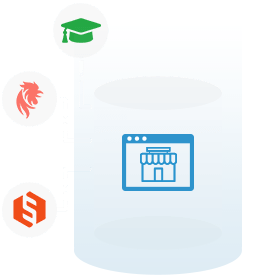
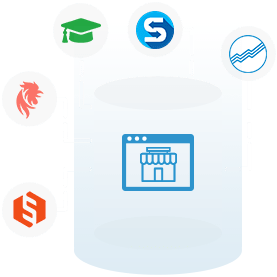
shuup changes added.

Changed region(s): [[0.491, 0.0289, 0.6354, 0.2022], [0.8087, 0.1155, 0.9819, 0.2599]]

diff --git a/en/marketplace/shuup/_index.md b/en/marketplace/shuup/_index.md
@@ -1,0 +1,32 @@
+---
+keywords: open source marketplace, top online marketplace, best open source b2b ecommerce platform, ecommerce marketplace, b2b ecommerce software solution, top b2b ecommerce platform
+title: Shuup | Widely deployed open source multivendor marketplace
+description: Shuup is an open source reliable and user-friendly single-vendor open source marketplace with subscriptions, commission plans and payment gateway integrations.
+singlepageh1title: Python and Django based open source multi-vendor marketplace
+singlepageh2title: Shuup is a true marketplace solution built for any business that allows vendors to sell services, subscriptions or physical products from an online marketplace.
+Shortdescriptionlistingpage: Shuup open source multi-vendor marketplace offers  features like inventory management, marketing and coupon campaigns, vendor subscription and commission plans.
+linktitle: Shuup
+Imagetext: Marketplace Software
+draft: false
+weight: 1
+layout: "single"
+GithubLink: https://github.com/shuup/shuup
+
+HomePage_TitleText: Open Source marketplace solution designed for selling services online.
+
+ListingPage_MenuImage_TitleText: 
+ListingPage_MenuImage_AltText: Shuup is open source marketplace software
+ListingPage_Link_TitleText: 
+
+SinglePage_HeaderImage_TitleText: Shuup is Python and Django Based Open Source Marketplace software
+SinglePage_HeaderImage_AltText: Shuup is Python and Django Based Open Source Marketplace software
+SinglePage_MenuImage_TitleText: Shuup is free and open source marketplace software
+SinglePage_MenuImage_AltText: Shuup is free and open source marketplace software
+
+---
+
+## **Overview**
+
+Shuup is an open source eCommerce platform easy to use, customize and scale. It is reliable and user-friendly, uses common standards that will promote your web and mobile presence. Shuup was built on top of the powerful Python web framework - Django. Its architecture provides secure work and advanced features for your store. This e-commerce framework allows to use responsive templates and themes that will make customization easy.
+
+Shuup aims at satisfying both sellers and buyers: features B2B, B2C, and multi-vendor stores. On the one hand, store is easy to manage and maintain. On the other hand, feasible interface and design make user experience pleasing. Shuup store features unlimited products, product types, and categories. Built-in features also include customer groups and customer property management. You can add person or company contacts, integrate Stripe payments and customize checkout process.

diff --git a/en/marketplace/shuup/installation.md b/en/marketplace/shuup/installation.md
@@ -1,0 +1,35 @@
+---
+title: Installation Guide
+onpagelink: installation
+weight: 3
+
+---
+
+### **Installation Instructions**
+
+## Install Shuup On Ubuntu
+
+First, ensure that all the depency packages of Shuup multivendor store are installed and up to date. Fastest way to get Shuup up and running is to use Docker:
+
+    docker-compose up
+
+Open localhost:8000/sa web panel in your favourite browser. Default log in with username: admin password: admin. If you want to install Shuup on local development environment then follow below guide. Update pip and setuptools below:
+
+    pip install -U pip
+    pip install -U setuptools
+
+Now, set up a new virtualenv for Shuup and activate it using command:
+
+    pip install -U pip
+    pip install -U setuptools
+
+Next, install shuup via pypi python packaging:
+
+    pip install shuup
+
+Once installed, you can begin setting up a Django project, settings and urls for configuration details. You will also need to add shuup.core to your INSTALLED_APPS. Finally, once you have configured the Shuup application then run the following commands to create the database and initialize Shuup:
+
+    python manage.py migrate
+    python manage.py shuup_init
+
+Congratulations! You have now set up the Shuup open source marketplace. Enjoy!

diff --git a/en/marketplace/shuup/faqs.md b/en/marketplace/shuup/faqs.md
@@ -1,0 +1,20 @@
+---
+title: FAQs
+onpagelink: faqs
+weight: 4
+
+---
+
+### **FAQs**
+
+### What is Shuup Marketplace?
+Shuup is a true open source marketplace solution that enables two-sided or single-vendor marketplaces for all B2B, B2C, and P2P solutions. Shuup offers complete flexibility in its open source marketplace platform.
+### Is Shuup free?
+Yes, Shuup downloading, installing and using marketplace source code is free of cost. So, you don't have to pay anything for Shuup marketpace.
+### Is Shuup open source?
+Yes, Shuup is an open source multi-vendor marketplace platform. The source code of Shuup platform is available at [Github](https://github.com/shuup/shuup).
+### What are the key benefits of using Shuup?
+Open source multivendor Shuup are multiple vendors can sell services, increase product offering when vendors add new goods, handle orders and product inventory, management of geolocation through 3rd party integrations.
+### What are Shuup competitors?
+Some of similar alternatives or competitors to Shuup open source marketplace software are CS-Cart Multi-Vendor, Dokan Multivendor Marketplace and open source Sharetribe.
+

diff --git a/en/marketplace/shuup/explore.md b/en/marketplace/shuup/explore.md
@@ -1,0 +1,17 @@
+---
+title: Explore
+onpagelink: explore
+weight: 5
+
+---
+
+### **Explore**
+
+In this article we discussed about open source marketplace Shuup. To learn about other marketplace software, please visit following pages:
+
+*   **[How To Install ShareTribe Peer-to-Peer Marketplace Software](https://products.containerize.com/marketplace/sharetribe/)**
+*   **[Top 5 Open Source Marketplace Software in 2021](https://blog.containerize.com/2021/05/07/top-5-open-source-marketplace-software-in-2021/)**
+*   **[How To Install Cocorico Marketplace to Sell Services Online](https://products.containerize.com/marketplace/cocorico/)**
+*   **[Open Source Udemy Clone Learning and Teaching Marketplace](https://products.containerize.com/marketplace/edurge/)**
+*   **[Top Open Source Marketplace Software Options](https://products.containerize.com/marketplace/)**
+

diff --git a/en/marketplace/shuup/features.md b/en/marketplace/shuup/features.md
@@ -1,0 +1,28 @@
+---
+title: Features
+onpagelink: features
+weight: 2
+
+---
+
+### **Features**
+
+Some of the key features of Shuup multivendor marketplace are listed below:
+
+*   User roles and Permissions
+*   Payment gateways
+*   Alerts/Notifications
+*   Cataloging/Categorization
+*   Categorization/Grouping
+*   Commission Management
+*   Inventory Management
+*   Order Management
+*   Payment Processing
+*   Promotions Management
+*   Returns Management
+*   Stock management
+*   SEO Management
+*   Shopping Cart
+*   Vendor Portal
+*   Open Source
+ 

diff --git a/en/marketplace/shuup/requirements.md b/en/marketplace/shuup/requirements.md
@@ -1,0 +1,16 @@
+---
+title: System Requirements
+onpagelink: requirements
+weight: 1
+
+---
+
+### **System Requirements**
+
+Requirements to Shuup open source marketplace include:
+
+*   Python 3.6+
+*   Django >= 2.2 LTS
+*   Django supported database
+*   Git
+ 
